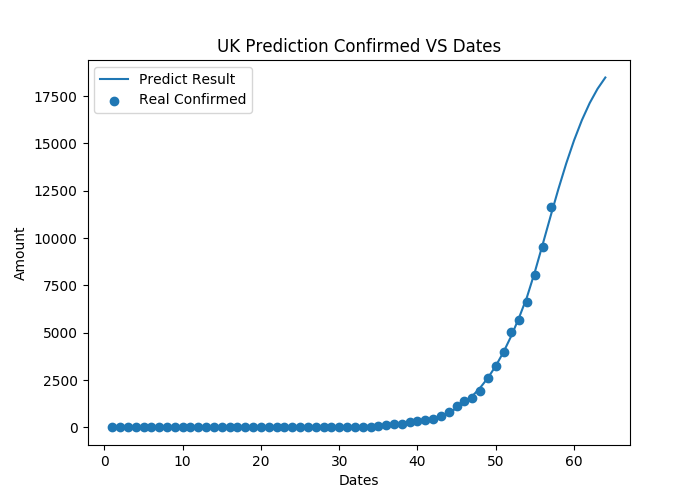
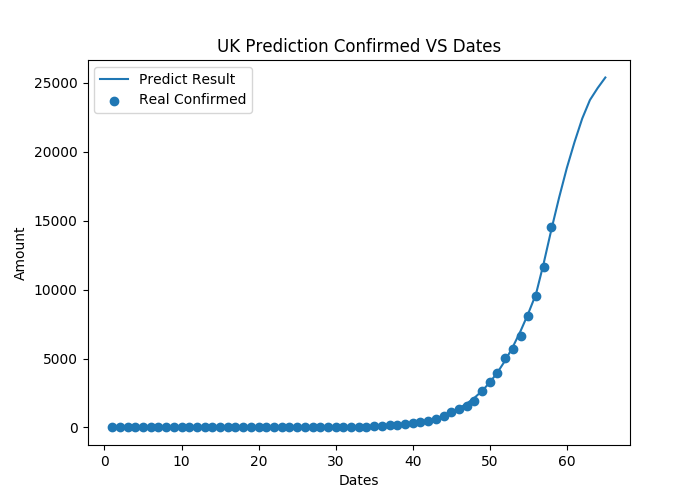
finished...

diff --git a/mlp_uk.py b/mlp_uk.py
@@ -39,7 +39,7 @@ italy_absorb = corn_y[italy_dates_length-1]
 
 corn_y_norm = corn_y / italy_absorb
 
-model.fit(corn_x, corn_y_norm, epochs=5000, shuffle=False)
+model.fit(corn_x, corn_y_norm, epochs=13000, shuffle=False)
 corn_y_predict = model.predict(corn_x)
 corn_y_predict = corn_y_predict * italy_absorb
 fig1 = plt.figure(figsize=(7, 5))
@@ -75,7 +75,7 @@ ger_absorb = ger_corn_y[ger_dates_length-1]
 
 corn_y_norm = ger_corn_y / ger_absorb
 
-model.fit(ger_corn_x, corn_y_norm, epochs=10000, shuffle=False)
+model.fit(ger_corn_x, corn_y_norm, epochs=14000, shuffle=False)
 corn_y_predict = model.predict(ger_corn_x)
 corn_y_predict = corn_y_predict * ger_absorb
 fig_italy = plt.figure(figsize=(7, 5))
@@ -87,7 +87,42 @@ plt.ylabel('Amount')
 plt.legend()
 plt.show()
 
-# uk corona
+# France model
+
+with open('data/france_history.csv', 'r') as csvfile:
+    reader = csv.reader(csvfile)
+    rows = [row for row in reader]
+
+
+fr_corn_y = []
+
+for each_y in rows:
+    fr_corn_y.append(int(each_y[0]))
+
+
+dates = len(fr_corn_y)
+fr_corn_x = list(range(1, dates + 1))
+
+fr_corn_x = np.array(fr_corn_x)
+fr_corn_y = np.array(fr_corn_y)
+
+fr_dates_length = len(fr_corn_x)
+fr_absorb = fr_corn_y[fr_dates_length-1]
+
+corn_y_norm = fr_corn_y / fr_absorb
+
+model.fit(fr_corn_x, corn_y_norm, epochs=12000, shuffle=False)
+corn_y_predict = model.predict(fr_corn_x)
+corn_y_predict = corn_y_predict * fr_absorb
+fig_italy = plt.figure(figsize=(7, 5))
+plt.scatter(fr_corn_x, fr_corn_y, label='Real Confirmed')
+plt.plot(fr_corn_x, corn_y_predict, label='Predict Result')
+plt.title('France Confirmed VS Dates')
+plt.xlabel('Dates')
+plt.ylabel('Amount')
+plt.legend()
+plt.show()
+
 # uk corona
 import json
 
@@ -109,6 +144,8 @@ uk_comfirmed_data = []
 for each in each_data:
     uk_comfirmed_data.append(each['confirmed'])
 
+uk_comfirmed_data.append(14543)
+
 uk_date_length = len(uk_comfirmed_data)
 uk_dates = list(range(1, uk_date_length + 1))
 
@@ -120,7 +157,7 @@ uk_absorb_amount = uk_comfirmed_data[uk_date_length-1]
 uk_comfirmed_data_norm = uk_comfirmed_data / uk_absorb_amount
 
 # fit model
-model.fit(uk_dates, uk_comfirmed_data_norm, epochs=10000, shuffle=False)
+model.fit(uk_dates, uk_comfirmed_data_norm, epochs=12000, shuffle=False)
 
 uk_comfirmed_data_predict = model.predict(uk_dates)
 uk_comfirmed_data_predict = uk_comfirmed_data_predict * uk_absorb_amount
@@ -144,3 +181,8 @@ plt.ylabel('Amount')
 plt.legend()
 plt.savefig('uk_model_7_days.png')
 plt.show()
+
+# save prediction data
+with open('uk_prediction_data/uk_prediction.json', 'w') as f:
+    dict_uk_data = dict(zip(list(range(1, uk_date_length+8)), (uk_comfirmed_predict_7_days*uk_absorb_amount).tolist()))
+    json.dump(dict_uk_data, f)

diff --git a/mlp_france.py b/mlp_france.py
@@ -1,0 +1,49 @@
+import numpy as np
+np.random.seed(1337)
+from keras.models import Sequential
+from keras.layers import Dense
+import matplotlib.pyplot as plt
+
+model = Sequential()
+model.add(Dense(units=50, input_dim=1, activation='relu'))
+model.add(Dense(units=50, activation='relu'))
+model.add(Dense(units=1, activation='sigmoid'))
+model.add(Dense(units=1, activation='linear'))
+model.compile(optimizer='adam', loss='mean_squared_error')
+model.summary()
+
+import csv
+
+with open('data/france_history.csv', 'r') as csvfile:
+    reader = csv.reader(csvfile)
+    rows = [row for row in reader]
+
+
+fr_corn_y = []
+
+for each_y in rows:
+    fr_corn_y.append(int(each_y[0]))
+
+
+dates = len(fr_corn_y)
+fr_corn_x = list(range(1, dates + 1))
+
+fr_corn_x = np.array(fr_corn_x)
+fr_corn_y = np.array(fr_corn_y)
+
+fr_dates_length = len(fr_corn_x)
+fr_absorb = fr_corn_y[fr_dates_length-1]
+
+corn_y_norm = fr_corn_y / fr_absorb
+
+model.fit(fr_corn_x, corn_y_norm, epochs=10000, shuffle=False)
+corn_y_predict = model.predict(fr_corn_x)
+corn_y_predict = corn_y_predict * fr_absorb
+fig_italy = plt.figure(figsize=(7, 5))
+plt.scatter(fr_corn_x, fr_corn_y, label='Real Confirmed')
+plt.plot(fr_corn_x, corn_y_predict, label='Predict Result')
+plt.title('France Confirmed VS Dates')
+plt.xlabel('Dates')
+plt.ylabel('Amount')
+plt.legend()
+plt.show()
